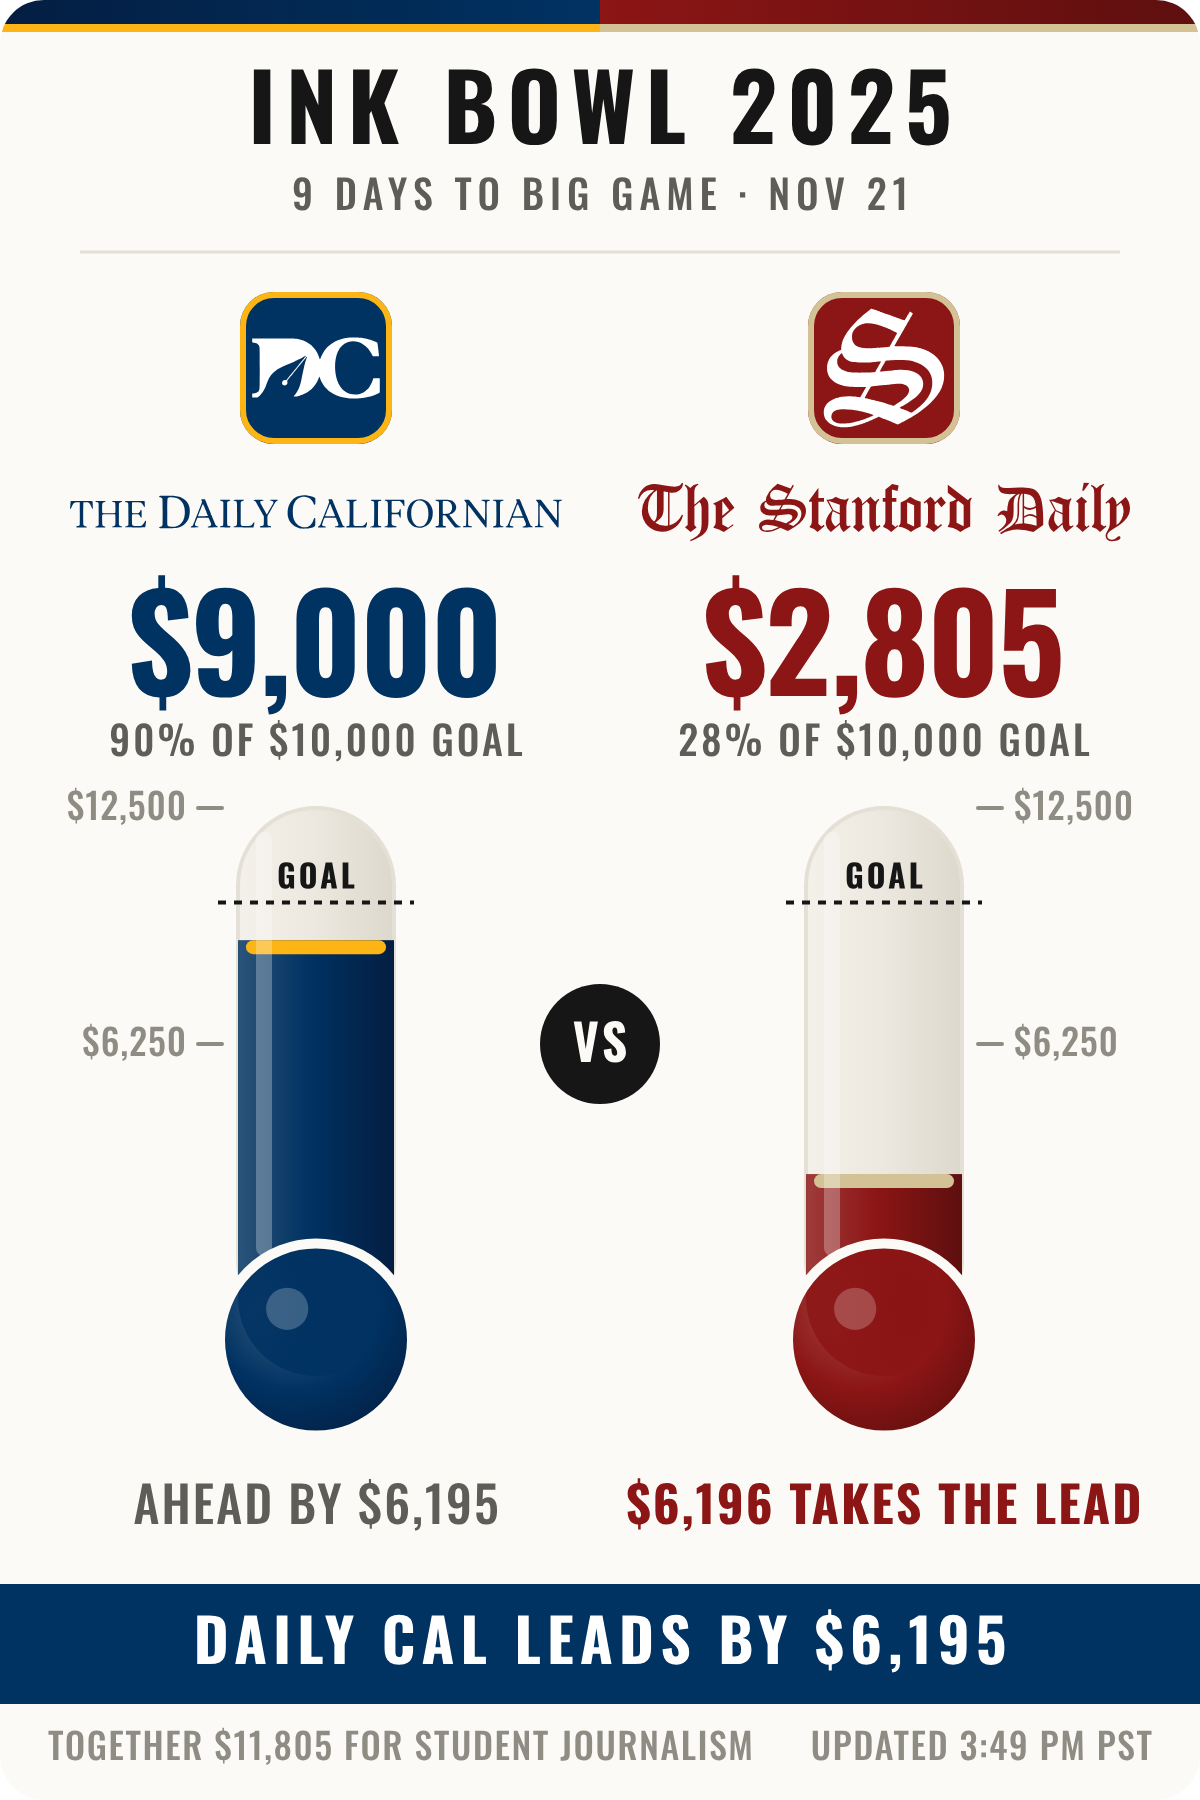
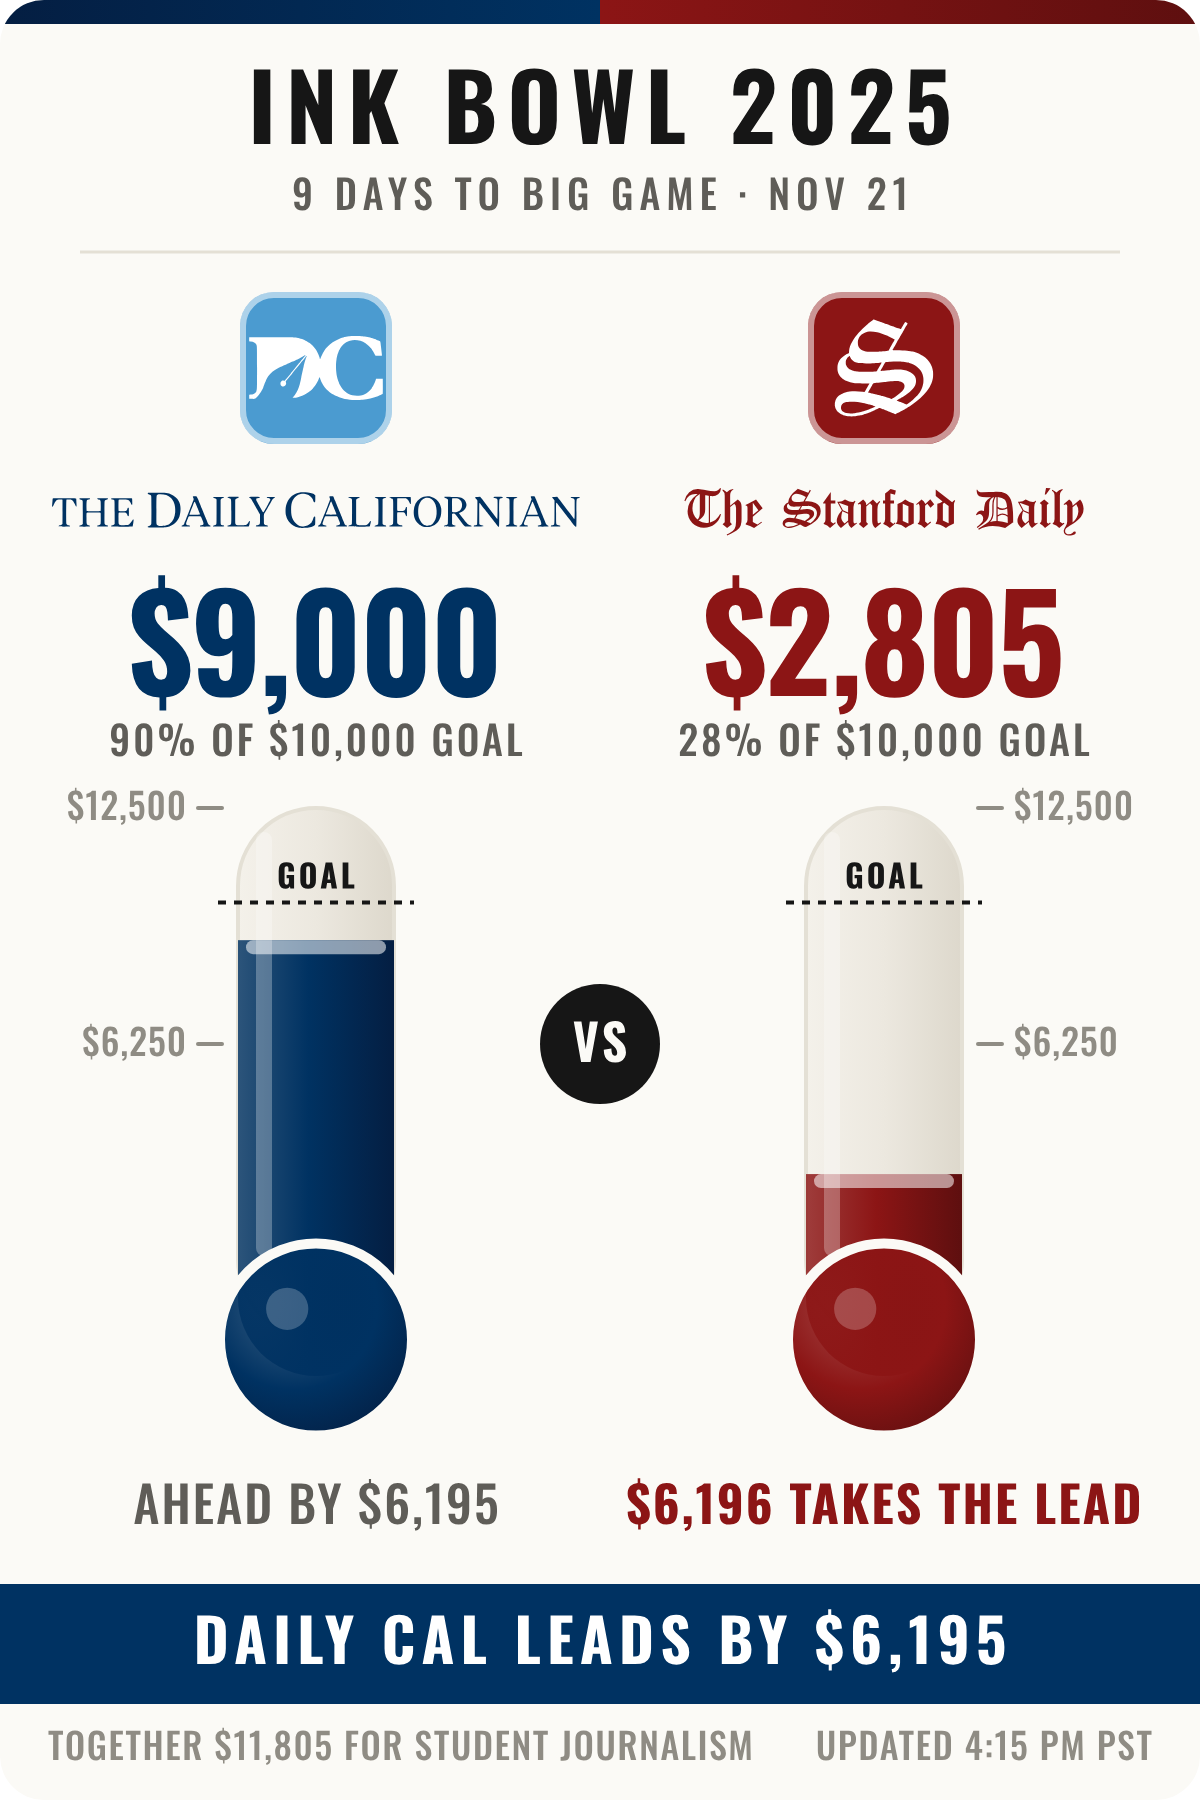
Fairness audit: equal visual size for nameplates and marks, neutral accents
Equal cap height left the Daily Cal's very wide nameplate looking bigger. Nameplates are now
sized to equal footprint on a shared baseline (four rules compared at phone size), the two
logo marks to equal ink (the S was ~1.6x heavier than the DC mark), and decorative accents are
one neutral treatment for both sides (California Gold is far more vivid than Sandstone).

New docs/FAIRNESS.md audits every per-paper element; FAIRNESS: tests guard the rules; CHANGELOG,
HISTORY, README, STATUS and CLAUDE.md updated; src/ink.js generated by scripts/measure-ink.cjs.

Claude-Session: https://claude.ai/code/session_01EpxwSrKrkjt1ueGdWtL3w7

diff --git a/src/render.js b/src/render.js
@@ -22,6 +22,7 @@
 import { TextLayer } from './text.js';
 import { LOGOS } from './logos.js';
 import { WORDMARKS } from './wordmarks.js';
+import { INK_AREA } from './ink.js';
 
 export const W = 600;
 export const H = 900;
@@ -52,47 +53,96 @@ const Y = {
 const TILE = 76;                    // logo tile size
 const WM_MAX_W = 264;               // widest a nameplate may be (a column is 300 wide); leaves a clear gutter
 const WM_BASE = 264;                // both nameplates sit on this baseline
-const WM_CAP_MAX = 18;              // preferred cap height in board units
+const MARK_MAX_W = TILE * 0.88;     // widest/tallest a logo mark may be inside its tile
+const MARK_MAX_H = TILE * 0.8;
 
 /**
- * Both nameplates are drawn at the SAME CAP HEIGHT on the SAME BASELINE, so neither paper looks bigger
- * or favoured. (Matching widths would not do it: Stanford's blackletter is far taller than the Daily
- * Cal's thin small capitals at equal width.) The wide Daily Cal line is what limits the common cap
- * height; the narrower Stanford nameplate simply takes less width.
+ * FAIRNESS: neither paper may look bigger or favoured, so the two nameplates (and the two logo marks)
+ * are sized to equal *visual size*, not equal width. Each rule scales a shape by 1/metric, so the metric
+ * comes out equal for both; the widest shape then sits at its limit. Measures disagree when shapes differ
+ * (Stanford's blackletter is tall, heavy and compact; the Daily Cal's capitals are thin and very wide), so
+ * the rule is a documented choice, compared in docs/design/.
+ *   cap        equal capital height
+ *   ink        equal filled area (visual mass)
+ *   footprint  equal bounding-box area (what the eye covers)
+ *   blend      geometric mean of the width-matched and cap-matched scale: neither width nor height dominates
  */
-export function nameplateLayout() {
-  const cap = (m) => m.base - m.top;
-  const capH = Math.min(WM_CAP_MAX, ...Object.values(WORDMARKS).map((m) => (WM_MAX_W / m.w) * cap(m)));
-  return Object.fromEntries(Object.entries(WORDMARKS).map(([k, m]) => {
-    const scale = capH / cap(m);
-    return [k, { scale, capH, baseline: WM_BASE, width: m.w * scale }];
+const NAMEPLATE_METRICS = {
+  cap: (m) => m.base - m.top,
+  ink: (m, k) => Math.sqrt(INK_AREA.wordmarks[k]),
+  footprint: (m) => Math.sqrt(m.w * m.h),
+};
+export const NAMEPLATE_RULE = 'footprint';
+
+/**
+ * Decorative accents (tile ring, mercury cap, top-bar underline). The papers' brand accents are not equally
+ * vivid: California Gold is far more saturated than Stanford's Sandstone, so Cal's ring/cap would pop and
+ * Stanford's would recede. 'neutral' gives both sides the identical treatment (a pale highlight); 'brand'
+ * restores gold/sandstone.
+ */
+export const ACCENTS = 'neutral';
+const accentFor = (side, mode) => (mode === 'brand'
+  ? { color: side.ring ?? side.accent, opacity: 1 }
+  : { color: '#FFFFFF', opacity: 0.55 });
+
+export function nameplateLayout(rule = NAMEPLATE_RULE) {
+  const entries = Object.entries(WORDMARKS);
+  const scales = {};
+  if (rule === 'blend') {
+    // width-matched scale is WM_MAX_W / w; cap-matched is c / cap with c from the widest. Their geometric mean:
+    const capScale = nameplateLayout('cap');
+    for (const [k, m] of entries) scales[k] = Math.sqrt((WM_MAX_W / m.w) * capScale[k].scale);
+    const widest = Math.max(...entries.map(([k, m]) => m.w * scales[k]));
+    for (const [k] of entries) scales[k] *= WM_MAX_W / widest;
+  } else {
+    const metric = NAMEPLATE_METRICS[rule];
+    if (!metric) throw new Error(`unknown nameplate rule ${rule}`);
+    const c = Math.min(...entries.map(([k, m]) => (WM_MAX_W * metric(m, k)) / m.w));
+    for (const [k, m] of entries) scales[k] = c / metric(m, k);
+  }
+  return Object.fromEntries(entries.map(([k, m]) => [k, {
+    scale: scales[k], baseline: WM_BASE, width: m.w * scales[k], capH: (m.base - m.top) * scales[k],
+    footprint: m.w * m.h * scales[k] ** 2, ink: INK_AREA.wordmarks[k] * scales[k] ** 2,
+  }]));
+}
+
+/** Logo marks inside their (equal-size) tiles: equal ink, limited by the tile. */
+export function markLayout() {
+  const entries = Object.entries(LOGOS);
+  const c = Math.min(...entries.map(([k, l]) => Math.min(MARK_MAX_W / l.w, MARK_MAX_H / l.h) * Math.sqrt(INK_AREA.logos[k])));
+  return Object.fromEntries(entries.map(([k, l]) => {
+    const scale = c / Math.sqrt(INK_AREA.logos[k]);
+    return [k, { scale, width: l.w * scale, height: l.h * scale, ink: INK_AREA.logos[k] * scale ** 2 }];
   }));
 }
+
 const TUBE_W = 78;
 const BULB_R = 48;
 const COL = { cal: 158, stanford: 442 };
 
 /** Logo tile (white mark on the team colour) with the paper's own nameplate beneath, centred on the column. */
-function lockup(side, { cx }) {
+function lockup(side, { cx, opts }) {
+  const acc = accentFor(side, opts.accents ?? ACCENTS);
   const L = LOGOS[side.key];
-  const sc = Math.min((TILE * 0.84) / L.w, (TILE * 0.78) / L.h);
+  const sc = markLayout()[side.key].scale;
   const left = cx - TILE / 2;
   const mx = left + (TILE - L.w * sc) / 2;
   const my = Y.tileTop + (TILE - L.h * sc) / 2;
 
   const W_ = WORDMARKS[side.key];
-  const nl = nameplateLayout()[side.key];
+  const nl = nameplateLayout(opts.nameplateRule)[side.key];
   const ws = nl.scale;
   const wx = cx - (W_.w * ws) / 2 - W_.x * ws;
   const wy = nl.baseline - W_.base * ws;
   return `
     <rect x="${r2(left)}" y="${Y.tileTop}" width="${TILE}" height="${TILE}" rx="17" fill="${side.tileFill ?? side.primary}"/>
-    <rect x="${r2(left + 1.5)}" y="${Y.tileTop + 1.5}" width="${TILE - 3}" height="${TILE - 3}" rx="15.5" fill="none" stroke="${side.ring ?? side.accent}" stroke-width="3"/>
+    <rect x="${r2(left + 1.5)}" y="${Y.tileTop + 1.5}" width="${TILE - 3}" height="${TILE - 3}" rx="15.5" fill="none" stroke="${acc.color}" stroke-opacity="${acc.opacity}" stroke-width="3"/>
     <use xlink:href="#logo-${side.key}" transform="translate(${r2(mx)} ${r2(my)}) scale(${Math.round(sc * 10000) / 10000})" fill="#FFFFFF"/>
     <use xlink:href="#wm-${side.key}" transform="translate(${r2(wx)} ${r2(wy)}) scale(${Math.round(ws * 10000) / 10000})" fill="${side.wmFill ?? side.primary}"/>`;
 }
 
-function thermometer(side, { cx, flip, T }) {
+function thermometer(side, { cx, flip, T, accents }) {
+  const acc = accentFor(side, accents);
   const tubeH = Y.tubeBottom - Y.tubeTop;
   const x = cx - TUBE_W / 2;
   const rx = TUBE_W / 2;
@@ -116,7 +166,7 @@ function thermometer(side, { cx, flip, T }) {
   })() : '';
 
   const cap = side.frac > 0
-    ? `<rect x="${x + 4}" y="${fillY}" width="${TUBE_W - 8}" height="7" rx="3.5" fill="${side.accent}" clip-path="url(#tube-${id})"/>`
+    ? `<rect x="${x + 4}" y="${fillY}" width="${TUBE_W - 8}" height="7" rx="3.5" fill="${acc.color}" fill-opacity="${acc.opacity}" clip-path="url(#tube-${id})"/>`
     : '';
 
   return `
@@ -148,7 +198,8 @@ function thermometer(side, { cx, flip, T }) {
   </g>`;
 }
 
-export function renderSvg(board) {
+export function renderSvg(board, opts = {}) {
+  const accents = opts.accents ?? ACCENTS;
   const layer = new TextLayer();
   const T = (str, o) => layer.text(str, o);
   const [cal, stan] = board.sides;
@@ -158,10 +209,10 @@ export function renderSvg(board) {
     const nudgeColor = side.trailing ? side.primary : INK_SOFT;
     const nudgeFace = side.trailing ? 'display700' : 'display500';
     return `
-    ${lockup(side, { cx })}
+    ${lockup(side, { cx, opts })}
     ${T(side.raisedText, { face: 'display700', size: 66, x: cx, y: Y.amount, anchor: 'middle', spacing: -1, fill: side.primary })}
     ${T(side.goalText ? `${side.pctOfGoal}% OF ${side.goalText} GOAL` : 'RAISED SO FAR', { face: 'display500', size: 20, x: cx, y: Y.pct, anchor: 'middle', spacing: 1.5, fill: INK_SOFT })}
-    ${thermometer(side, { cx, flip, T })}
+    ${thermometer(side, { cx, flip, T, accents })}
     ${T(side.nudge.toUpperCase(), { face: nudgeFace, size: 25, x: cx, y: Y.nudge, anchor: 'middle', spacing: 1, fill: nudgeColor })}`;
   };
 
@@ -171,9 +222,9 @@ export function renderSvg(board) {
   const body = `
     <rect x="0" y="0" width="${W}" height="${H}" fill="${PAPER}"/>
     <rect x="0" y="0" width="${W / 2}" height="12" fill="url(#band-cal)"/>
-    <rect x="0" y="12" width="${W / 2}" height="4" fill="${cal.accent}"/>
+    ${accents === 'brand' ? `<rect x="0" y="12" width="${W / 2}" height="4" fill="${cal.accent}"/>` : ''}
     <rect x="${W / 2}" y="0" width="${W / 2}" height="12" fill="url(#band-stan)"/>
-    <rect x="${W / 2}" y="12" width="${W / 2}" height="4" fill="${stan.accent}"/>
+    ${accents === 'brand' ? `<rect x="${W / 2}" y="12" width="${W / 2}" height="4" fill="${stan.accent}"/>` : ''}
 
     ${T(board.event.toUpperCase(), { face: 'display700', size: 46, x: W / 2, y: Y.title, anchor: 'middle', spacing: 5, fill: INK })}
     ${T(`${board.countdown} · NOV 21`, { face: 'display500', size: 20, x: W / 2, y: Y.countdown, anchor: 'middle', spacing: 3, fill: INK_SOFT })}

diff --git a/src/ink.js b/src/ink.js
@@ -1,0 +1,2 @@
+// GENERATED by scripts/measure-ink.cjs: filled area of each mark and nameplate in its own path units squared.
+export const INK_AREA = {"wordmarks":{"cal":8335,"stanford":7830},"logos":{"cal":20428,"stanford":41554}};

diff --git a/docs/FAIRNESS.md b/docs/FAIRNESS.md
@@ -1,0 +1,35 @@
+# Fairness audit
+
+**Principle: neither paper may look bigger, bolder or favoured.** This is a joint fundraiser between two
+rivals; donors on both sides must feel the board treats them equally. Everything drawn per paper is
+checked here. Rules live in `src/render.js`; tests in `test/render.test.mjs` enforce them (the
+`FAIRNESS:` tests). If you add anything per paper, add it to this table and test it.
+
+| Element | Treatment | Rule / status |
+| --- | --- | --- |
+| **Nameplates** (The Daily Californian vs The Stanford Daily) | Same baseline; sized to **equal footprint** (bounding-box area) | Equal *width* made Stanford's blackletter look bigger (capitals ~1.5x taller); equal *cap height* made the Daily Cal's very wide line look bigger. Measures disagree because the shapes differ, so we chose the rule that treats width and height alike and checked it by eye. With it: Stanford vs Cal = cap 1.11x, width 0.76x, ink 1.28x, footprint 1.00x. Guarded to stay within cap 0.9-1.2x, ink 0.8-1.4x, width 0.65-1.5x. Options compared: `design/nameplate-size-rules.png`. |
+| **Logo marks** (inside the tiles) | Tiles are identical (76 units); marks sized to **equal ink** | The "S" is far heavier than the "DC" mark at equal box size (26% vs 16% of the tile), so marks are scaled to equal filled area (both 995 units²): DC 67x32, S 49x48. Test enforces <1% difference. |
+| **Decorative accents** (tile ring, mercury cap, top-bar underline) | **One neutral treatment for both** (pale white highlight) | California Gold is far more vivid than Stanford's Sandstone, so brand accents made Cal's ring and cap pop and Stanford's recede. Neutral gives both sides the identical treatment. `ACCENTS = 'brand'` restores them. Compared: `design/accent-parity.png`. Test asserts neither brand accent hex appears. |
+| **Amounts, goal lines, labels, ticks** | Same typeface, size, weight, spacing | By construction (one code path). |
+| **Thermometers** | Identical geometry; **one shared scale keyed to the leader** | By construction; the taller tube is always the side that is ahead. |
+| **Leader / trailer messaging** | Symmetric logic | The trailing side gets the "$X takes the lead" call to action in its team colour; the leader's line is quieter; a tie reads "Dead even" for both. Data-driven, not paper-driven. |
+| **Headline band** | Takes the leader's colour | Data-driven. |
+| **Donate buttons** (page) | Same size and style, one per paper | Only the label length differs (the names differ). |
+| **Data** | Both read the same way (public campaign page; API per side when a key exists) | Neither side is favoured by the reader; each side's failure is independent and shown honestly (`LAST KNOWN`). |
+
+## Differences we cannot, and should not, remove
+- **Team colours.** Each paper keeps its own official primary: Berkeley Blue `#003262` and Stanford Cardinal
+  `#8C1515`. Navy is darker than cardinal, so it carries slightly more visual weight on the cream card.
+  That is each side's identity; recolouring either would be less fair, not more. (The Daily Cal's logo tile
+  uses the paper's own lighter blue; see `HISTORY.md` decision 9.)
+- **Logo and nameplate shapes.** Different artwork has different shapes; we equalise size and weight, not shape.
+
+## Open question: left/right order
+The Daily Cal is on the left and The Stanford Daily on the right (alphabetical by masthead; and the 2026 Big
+Game is in Berkeley). Left-first can read as "first/primary". Options if either paper cares: agree an order,
+alternate it by year, or add a config switch (`LEFT_SIDE`) — not built; ask the papers.
+
+## How to check a change
+1. `npm test` (the `FAIRNESS:` tests).
+2. `npm run preview -- 1391 2805` and look at `docs/preview-phone.png` at phone width, side by side.
+3. Try the swapped case (`npm run preview -- 3000 1000`) so the leader/trailer treatment is also symmetric.

diff --git a/docs/HISTORY.md b/docs/HISTORY.md
@@ -50,8 +50,8 @@ Whoever ran the earlier thermometer is not documented; we could not confirm what
    are substantial; the gap is stated as an actionable number under the trailing side ("$1,415 takes
    the lead"). Goal shown as a percentage and a dashed line once within range.
 4. **Mobile-first**: a Givebutter story image shows at ~340 px on a phone; type sizes are chosen for
-   that. Official palettes: Berkeley Blue `#003262` / California Gold `#FDB515`; Stanford Cardinal
-   `#8C1515` / Sandstone `#D2C295`.
+   that. Official primaries: Berkeley Blue `#003262` and Stanford Cardinal `#8C1515`
+   (the brands' secondary accents, California Gold `#FDB515` and Sandstone `#D2C295`, are unused: see decision 10).
 5. **PNG for email without Worker CPU:** staff download it from `/png`, rendered in their browser.
    Server-side PNG exists but is off (Workers Free CPU limit).
 6. **One address.** `https://inkbowl.giving` serves the page to browsers and the image to image
@@ -63,10 +63,12 @@ Whoever ran the earlier thermometer is not documented; we could not confirm what
 9. **Paper brand vs team colours.** The Daily Cal's logo tile uses the paper's own light blue; the
    thermometer, amount and nameplate use Berkeley Blue. Distinct brands, coherent column; light-blue
    lettering failed on legibility (see `docs/design/daily-cal-colour-options.png`).
-10. **Neither paper looks favoured: equal cap height, shared baseline.** Equal nameplate width left
-   Stanford's blackletter capitals ~1.5x taller (and much heavier) than the Daily Cal's. Cap height (the letters themselves) is what the eye
-   compares, so both nameplates use one cap height and one baseline; widths follow the names
-   (`docs/design/nameplate-sizing.png`). Apply the same rule to anything else shown per paper.
+10. **Fairness in all respects** (see `FAIRNESS.md`). Sizing by one measure always favoured someone: equal
+   width made Stanford's blackletter look bigger, equal cap height made the Daily Cal's very wide line
+   look bigger. Nameplates are now sized to equal footprint on a shared baseline, logo marks to equal ink,
+   and decorative accents are neutral and identical (gold is more vivid than sandstone). Rule of thumb:
+   never size per-paper art by a single dimension; compare rules visually at phone size
+   (`docs/design/`) and guard the result with tests.
 
 ## Incidents and lessons
 - **Invisible text on a phone's first load.** An SVG in an `<img>` paints once; text waiting on an

diff --git a/CLAUDE.md b/CLAUDE.md
@@ -21,9 +21,10 @@ are. Update `CHANGELOG.md` and the relevant doc with every change (commit docs w
 - The SVG has **no `<text>`, `@font-face` or font-family**: all text is outlined (`src/text.js`).
   An SVG in an `<img>` paints once, so font-dependent text is invisible on first load.
 - The board is 600 wide (Givebutter story max); keep type sizes legible at ~340 px.
-- **Neither paper may look favoured.** Anything shown per paper (nameplates, tiles, amounts) is drawn
-  at equal visual size: nameplates share one cap height and baseline (`nameplateLayout()`), tiles are
-  the same size. Never size by width alone; check the phone preview side by side.
+- **Neither paper may look favoured** (`docs/FAIRNESS.md`). Anything shown per paper is sized for equal visual
+  size, never by one dimension: nameplates share a baseline and equal footprint (`nameplateLayout()`), logo
+  marks equal ink (`markLayout()`), accents neutral and identical (`ACCENTS`). Check every visual change at
+  phone width, including the swapped case, and keep the `FAIRNESS:` tests passing.
 - Server-side PNG stays off (`SERVER_PNG=false`) on Workers Free (10 ms CPU). Staff use `/png`.
 - KV writes stay write-on-change (Free allows 1,000/day).
 - `https://inkbowl.giving` must keep serving the page to browsers and the SVG to image requests.
@@ -36,5 +37,5 @@ npm run test:integration     # wrangler dev in workerd + browser PNG export (nee
 npm run preview -- 1391 2805 # docs/preview-{desktop,phone}.png
 ```
 Regenerate generated data only when inputs change: `scripts/build-glyphs.py` (typefaces),
-`scripts/trace-logos.py` (avatars), `scripts/trace-wordmarks.py` (nameplates). Check any visual
+`scripts/trace-logos.py` (avatars), `scripts/trace-wordmarks.py` (nameplates), then `node scripts/measure-ink.cjs`. Check any visual
 change at phone width (`docs/preview-phone.png`) before pushing.

diff --git a/CHANGELOG.md b/CHANGELOG.md
@@ -3,7 +3,21 @@
 All notable changes. Newest first. Everything below shipped on 2026-11-12 unless noted; commit
 hashes are on `main`. Live site: **https://inkbowl.giving**.
 
-## Equal nameplate size (this change)
+## Fairness audit: equal visual size, equal marks, neutral accents (this change)
+- **Nameplates** now sized to **equal footprint** on one baseline. Equal cap height (the previous
+  change) left the Daily Cal's very wide line covering more of the page, so it looked bigger; equal
+  width (before that) made Stanford look bigger. Four rules were compared at phone size
+  (`docs/design/nameplate-size-rules.png`); equal footprint looked most balanced.
+- **Logo marks** scaled to **equal ink** inside the equal tiles: the "S" was ~1.6x heavier than the
+  "DC" mark; now both carry the same visual mass.
+- **Accents** (tile ring, mercury cap, top-bar underline) are now one **neutral** treatment for both
+  sides: California Gold is far more vivid than Stanford's Sandstone, which made Cal pop
+  (`docs/design/accent-parity.png`). `ACCENTS = 'brand'` restores them.
+- New `docs/FAIRNESS.md` (audit of every per-paper element, rules, known unavoidable differences, open
+  question about left/right order); `FAIRNESS:` tests; `src/ink.js` generated by
+  `scripts/measure-ink.cjs`.
+
+## Equal nameplate cap height (`837d484`, superseded by the rule above)
 - **Problem:** both nameplates were the same *width*, but at equal width Stanford's blackletter capitals
   were ~1.5x taller than the Daily Cal's (overall height ~1.7x, with descenders), so Stanford looked
   bigger and bolder.

diff --git a/docs/STATUS.md b/docs/STATUS.md
@@ -74,6 +74,9 @@ Story images max out at 600 px wide; the board is designed for that.
    own black-on-white version) is a one-line change (`wmFill` in `src/model.js` + `src/render.js`).
 
 
+8. **Fairness:** see `FAIRNESS.md`. Open question: left/right order (Daily Cal left, Stanford right); ask both
+   papers whether they care, and whether to alternate by year.
+
 ## Limits to remember (Workers Free plan)
 - 10 ms CPU per request: the server-side PNG (`/thermometer.png`, ~300 ms) is **off** by default
   (`SERVER_PNG=false`); staff use `/png`, which renders in their browser. Enable it only on Workers
